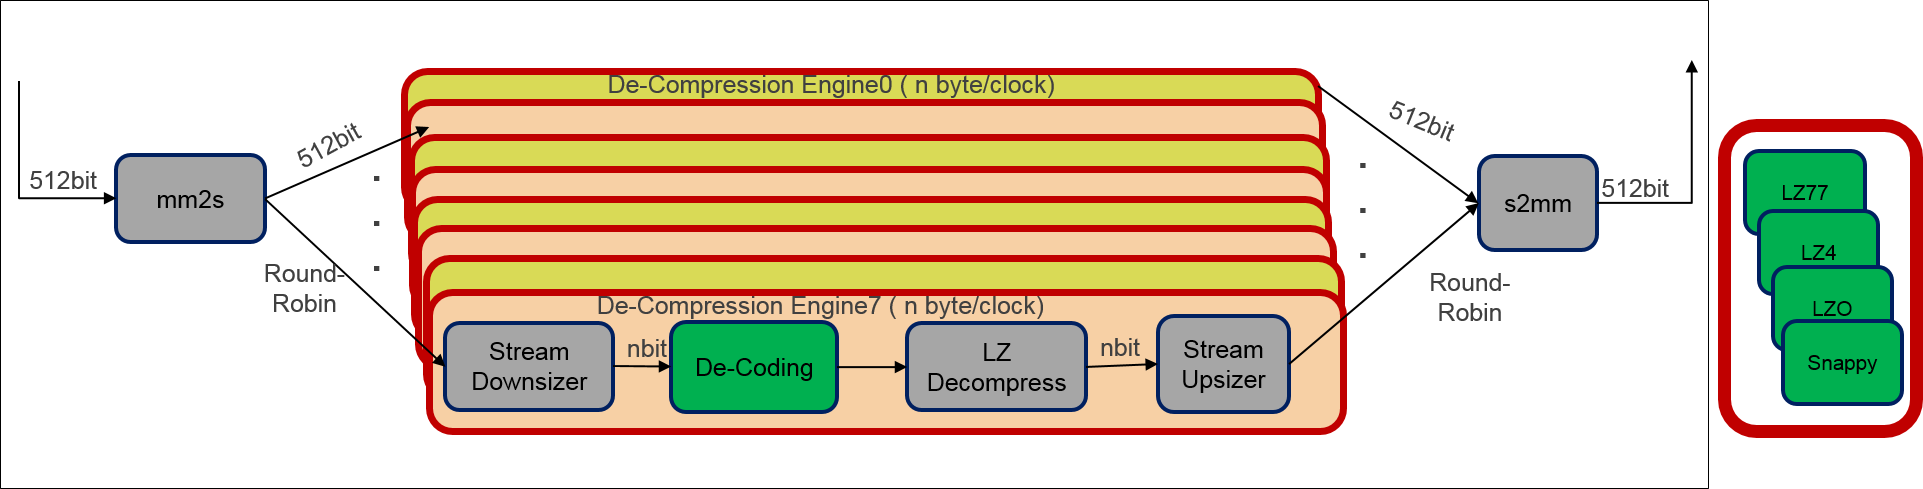
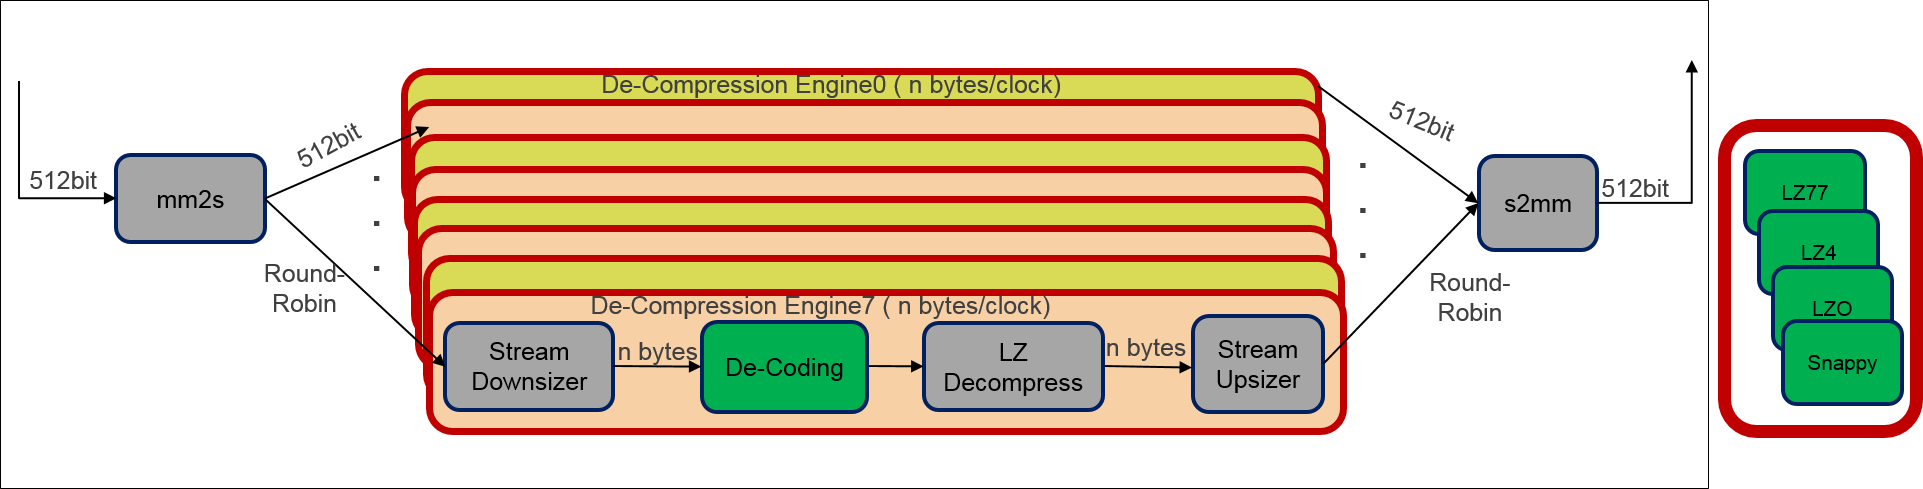
updated img and readme

diff --git a/data_compression/README.md b/data_compression/README.md
@@ -38,10 +38,14 @@ Diagram above presents overview of LZ kernel architecture for decompression.
 Each decompression engine contains series of modules, which transfer
 data to next module using HLS stream. Similar to LZ compression mm2s(input
 unit) and s2mm(output unit) are connected to decompression engines.
+Each sub-module is designed to process n bytes/clock
+so overall each engine will maintain a constant throughput of n bytes/clock.
+The current design is configured to process 8 bytes/clock.
 
 ## Implemented Algorithms
 
 Based on the presented architecture above we have implemented following compression algorithm.
 
 * [LZ4 Compress/Decompress](https://gitenterprise.xilinx.com/heeran/xil_lz4/tree/master/xil_lz4)
+
 
